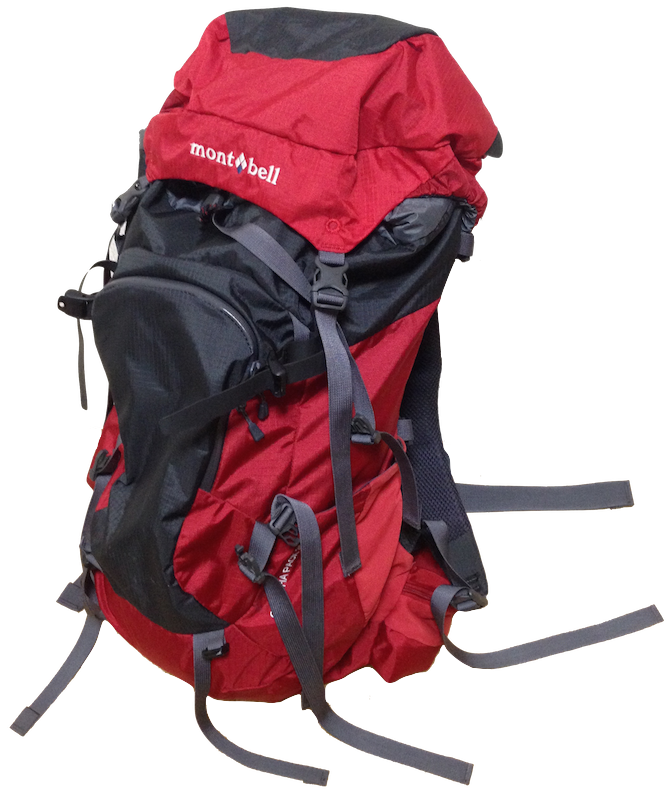
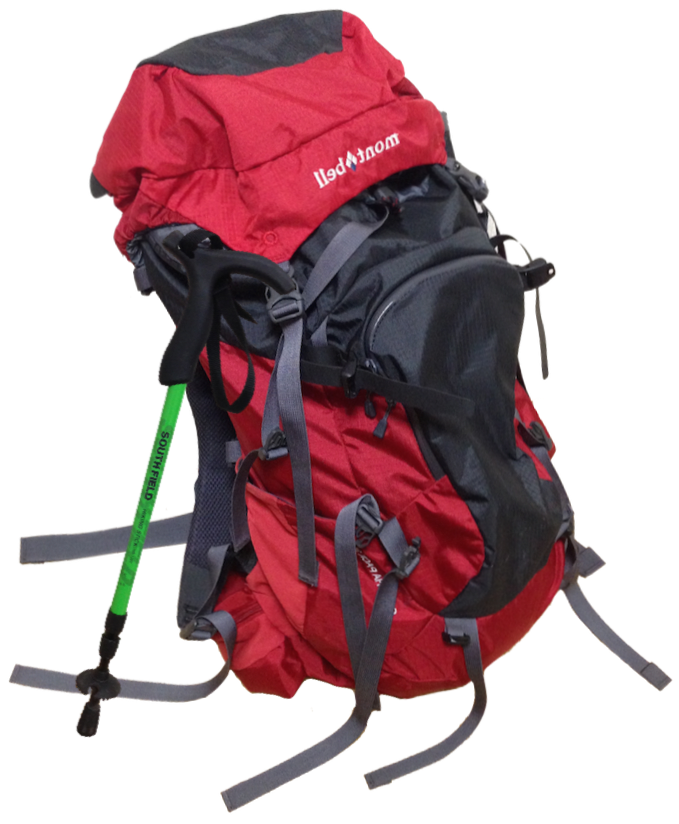
I added images.

diff --git a/about/index.html b/about/index.html
@@ -84,14 +84,14 @@
 							<h3>To climb mountain.</h3>
 							<p>I climb moutain sometimes, I have ever climbed Fujiyama, Tateyama, Atagoyama, Rokkosan and so on. </p>
 						</div>
-						<img src="../img/about/keyboard_thumbs.png" alt="Mountain" />
+						<img src="../img/about/climb_bag.png" alt="Mountain" />
 					<!-- /#mountain --></div> <!-- style="width:200px; height: 200px;" -->
 
 					<div class="hobbies" id="piano">
-						<img src="../img/about/keyboard_thumb.png" alt="to play piano"/>
+						<img src="../img/about/keyboard.png" alt="To play piano"/>
 						<div class="comment">
 							<h3>To play piano, and make music by DTM.</h3>
-							<p>I play classic piano. and I make music by DTM software. I make background music of game. I'm going to make cool electonic music （学生の間に）.</p>
+							<p>I play classic piano. and I make music by DTM software. I make background music of game. I'm going to make cool electonic music.</p>
 						</div>
 					<!-- /#piano --></div>
 				</section>

diff --git a/css/about.css b/css/about.css
@@ -201,11 +201,12 @@
 #about #mainTopic article section#hobby #climb {
 }
 #about #mainTopic article section#hobby #climb img {
-	width: 300px;
+	width: 38%;
 	margin-right: 2%;
 }
 #about #mainTopic article section#hobby #climb .comment {
 	float: left; 
+	margin-top: 6%;
 	margin-left: 8%;
 }
 
@@ -219,7 +220,7 @@
 	float: left;
 	width: 60%;
 	margin-left: -5%;
-	margin-top: -6%;
+	margin-top: -20%;
 }
 
 #about #mainTopic article section#hobby #piano .comment h3 {
@@ -228,7 +229,7 @@
 #about #mainTopic article section#hobby #piano .comment {
 	float: right;
 	width: 38%;
-	margin-top: 13%;
+	margin-top: 0%;
 	margin-left: -20%;
 	margin-right: 5%;
 }
